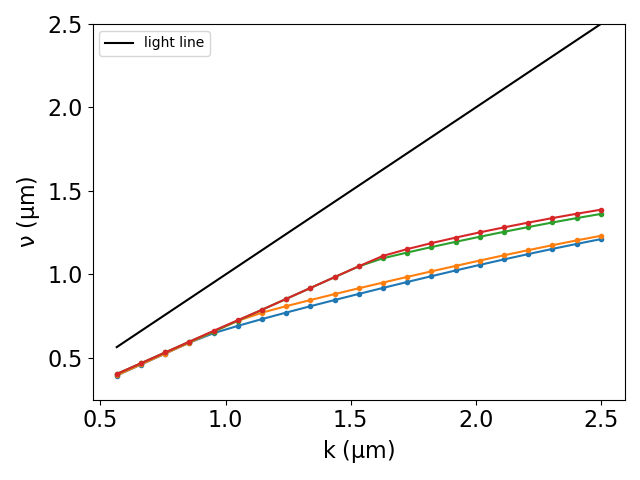
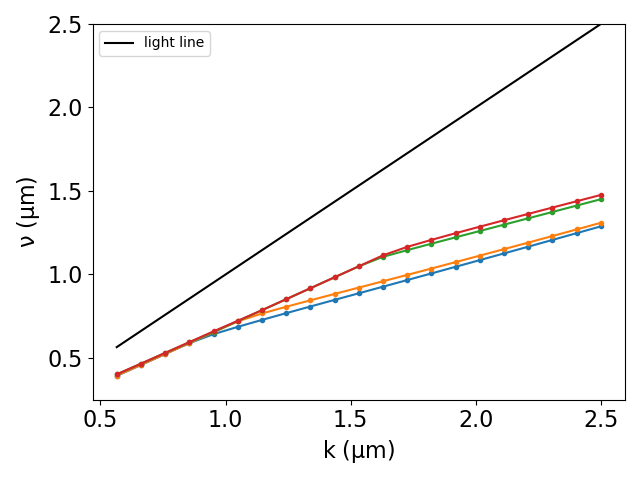
make sure materials are BIREFRINGENT

diff --git a/waveguide_dispersion.py b/waveguide_dispersion.py
@@ -5,8 +5,8 @@ frequency. For example, you can imagine that for a frequency well above the cuto
 that can propagate which results in different k's. MPB solves for the modes starting with highest order and going
 down to the fundamental mode. This is because information retained from the higher order modes can be used to
 accelerate the calculations for the lower ones. You can pass arguments to ms.find_k(), for example, if you wanted it
-to retain the E and H that are calculated. This would allow you to plot the field cross-sections inside the waveguide
-for the different modes. """
+to retain the E and H fields that are calculated. This would allow you to plot the field cross-sections inside the
+waveguide for the different modes. """
 
 import meep as mp
 import meep.materials as mt
@@ -71,8 +71,8 @@ class RidgeWaveguide:
         """
 
         geometry_sim = copy.deepcopy(self.geometry)
-        geometry_sim[0].material = mp.Medium(epsilon=self.wvgd_mdm.epsilon(1 / 1.55)[2, 2])
-        geometry_sim[1].material = mp.Medium(epsilon=self.sbstrt_mdm.epsilon(1 / 1.55)[2, 2])
+        geometry_sim[0].material = mp.Medium(epsilon_diag=self.wvgd_mdm.epsilon(1 / 1.55).diagonal())
+        geometry_sim[1].material = mp.Medium(epsilon_diag=self.sbstrt_mdm.epsilon(1 / 1.55).diagonal())
         self.sim = mp.Simulation(cell_size=self.lattice.size,
                                  geometry=geometry_sim,
                                  resolution=self.resolution[0])
@@ -249,17 +249,17 @@ class RidgeWaveguide:
 
         start = time.time()
         for n, k in enumerate(k_points):
-            eps_wvgd = self.wvgd_mdm.epsilon(k.x)[2, 2]
-            eps_sbstrt = self.sbstrt_mdm.epsilon(k.x)[2, 2]
-            self.blk_wvgd.material = mp.Medium(epsilon=eps_wvgd)
-            self.blk_sbstrt.material = mp.Medium(epsilon=eps_sbstrt)
+            eps_wvgd = self.wvgd_mdm.epsilon(k.x)
+            eps_sbstrt = self.sbstrt_mdm.epsilon(k.x)
+            self.blk_wvgd.material = mp.Medium(epsilon_diag=eps_wvgd.diagonal())
+            self.blk_sbstrt.material = mp.Medium(epsilon_diag=eps_sbstrt.diagonal())
 
             self.ms.k_points = [k]
             self.ms.run()
 
             FREQ[n] = self.ms.all_freqs[0]
-            EPS_WVGD[n] = eps_wvgd.real
-            EPS_SBSTRT[n] = eps_sbstrt.real
+            EPS_WVGD[n] = eps_wvgd.real[2, 2]
+            EPS_SBSTRT[n] = eps_sbstrt.real[2, 2]
 
             print(f'____________________________{len(k_points) - n}________________________________________')
 
@@ -297,33 +297,79 @@ class RidgeWaveguide:
         res.freq = self.ms.all_freqs
         return res
 
+    def find_k(self, p, omega, band_min, band_max, korig_and_kdir, tol,
+               kmag_guess, kmag_min, kmag_max, *band_funcs):
+
+        args = [p, omega, band_min, band_max, korig_and_kdir, tol,
+                kmag_guess, kmag_min, kmag_max, *band_funcs]
+
+        if (self.wvgd_mdm.valid_freq_range[-1] == 1e20) and (self.sbstrt_mdm.valid_freq_range[-1] == 1e20):
+            # materials are NON dispersive
+            return self.ms.find_k(*args)
+
+        else:
+            # materials are dispersive
+            # set the substrate and waveguide epsilon for the input wavelength
+            # then run the simulation
+            eps_wvgd = self.wvgd_mdm.epsilon(omega)
+            eps_sbstrt = self.sbstrt_mdm.epsilon(omega)
+            self.blk_wvgd.material = mp.Medium(epsilon_diag=eps_wvgd.diagonal())
+            self.blk_sbstrt.material = mp.Medium(epsilon_diag=eps_sbstrt.diagonal())
+            return self.ms.find_k(*args)
 
 # %%____________________________________________________________________________________________________________________
-wl_wvgd = 3.5  # um
-n_cntr_wl = mt.LiNbO3.epsilon((1 / wl_wvgd))[2, 2]  # ne polarization
-wdth_wvgd = 0.5 * wl_wvgd / n_cntr_wl
+# wl_wvgd = 3.5  # um
+# n_cntr_wl = mt.LiNbO3.epsilon((1 / wl_wvgd))[2, 2]  # ne polarization
+# wdth_wvgd = 0.5 * wl_wvgd / n_cntr_wl
+#
+# ridge = RidgeWaveguide(
+#     width=wdth_wvgd,
+#     height=.5,
+#     substrate_medium=mt.SiO2,  # dispersive
+#     waveguide_medium=mt.LiNbO3,  # dispersive
+#     resolution=40,
+#     num_bands=4,
+#     cell_width=8,
+#     cell_height=8
+# )
 
-ridge = RidgeWaveguide(
-    width=wdth_wvgd,
-    height=.5,
-    # substrate_medium=mp.Medium(index=1.45),
-    # waveguide_medium=mp.Medium(index=3.45),
-    substrate_medium=mt.SiO2,
-    waveguide_medium=mt.LiNbO3,
-    resolution=30,
-    num_bands=4,
-    cell_width=8,
-    cell_height=8
-)
+# ridge.num_bands = 4
+# res = ridge.calculate_dispersion(.4, 1.77, 19)
+#
+# plt.figure()
+# [plt.plot(res.kx, res.freq[:, n], '.-') for n in range(res.freq.shape[1])]
+# plt.plot(res.kx, res.kx, 'k', label='light line')
+# plt.legend(loc='best')
+# plt.xlabel("k ($\mathrm{\mu m}$)")
+# plt.ylabel("$\mathrm{\\nu}$ ($\mathrm{\mu m}$)")
+# plt.ylim(.25, 2.5)
 
 # %%____________________________________________________________________________________________________________________
-res = ridge.calculate_dispersion(.4, 1.77, 19)
+# set epsilon for 1.55 um
+# ridge.width = 1
 
-# %%____________________________________________________________________________________________________________________
-plt.figure()
-[plt.plot(res.kx, res.freq[:, n], '.-') for n in range(res.freq.shape[1])]
-plt.plot(res.kx, res.kx, 'k', label='light line')
-plt.legend(loc='best')
-plt.xlabel("k ($\mathrm{\mu m}$)")
-plt.ylabel("$\mathrm{\\nu}$ ($\mathrm{\mu m}$)")
-plt.ylim(.25, 2.5)
+# omega = 1 / 1.55
+# n = ridge.wvgd_mdm.epsilon(1 / 1.55)[2, 2]
+# kmag_guess = n * omega
+#
+# k = ridge.find_k(
+#     p=mp.EVEN_Y,
+#     omega=1,
+#     band_min=4,
+#     band_max=4,
+#     korig_and_kdir=mp.Vector3(1),
+#     tol=1e-6,
+#     kmag_guess=kmag_guess,
+#     kmag_min=kmag_guess * .1,
+#     kmag_max=kmag_guess * 10
+# )
+#
+# E = ridge.ms.get_efield(1, False)
+# eps = ridge.ms.get_epsilon()
+# for n, title in enumerate(['Ex', 'Ey', 'Ez']):
+#     plt.figure()
+#     x = E[:, :, 0, n].__abs__() ** 2
+#     plt.imshow(eps[::-1, ::-1].T, interpolation='spline36', cmap='binary')
+#     plt.imshow(x[::-1, ::-1].T, cmap='RdBu', alpha=0.9)
+#     plt.axis(False)
+#     plt.title(title)

diff --git a/temp2.py b/temp2.py
@@ -1,0 +1,82 @@
+import meep as mp
+from meep import mpb
+import numpy as np
+from matplotlib import pyplot as plt
+
+Si = mp.Medium(index=3.45)
+wavelength = 1.55
+omega = 1 / wavelength
+w = 1  # Si width (um)
+h = 0.5  # Si height (um)
+geometry = [mp.Block(size=mp.Vector3(mp.inf, w, h), material=Si)]
+resolution = 32  # pixels/um
+sc_y = 2  # supercell width (um)
+sc_z = 2  # supercell height (um)
+geometry_lattice = mp.Lattice(size=mp.Vector3(0, sc_y, sc_z))
+
+num_modes = 4
+# Setup a simulation object
+ms = mpb.ModeSolver(
+    geometry_lattice=geometry_lattice,
+    geometry=geometry,
+    resolution=resolution,
+    num_bands=num_modes
+)
+
+# ------------------------------------------------- #
+# Solve for all the modes at once, then plot
+# ------------------------------------------------- #
+
+k = ms.find_k(
+    p=mp.EVEN_Z,
+    omega=omega,
+    band_min=1,
+    band_max=num_modes,
+    korig_and_kdir=mp.Vector3(1, 0, 0),
+    tol=1e-4,
+    kmag_guess=omega * 3.45,
+    kmag_min=omega * 0.1,
+    kmag_max=omega * 4
+)
+print(wavelength * np.array(k))
+eps = ms.get_epsilon()
+plt.figure(figsize=(8, 4))
+# Plot the E fields
+for mode in range(num_modes):
+    print('Current band: {}'.format(mode + 1))
+    E = ms.get_efield(which_band=mode + 1, bloch_phase=False)
+    plt.subplot(1, num_modes, mode + 1)
+    plt.imshow(eps.transpose(), interpolation='spline36', cmap='binary')
+    plt.imshow(np.abs(np.squeeze(E[:, :, 0, 1]).transpose()) ** 2, cmap='RdBu', alpha=0.9)
+    plt.axis('off')
+    plt.title('$E_{{y{}}}$'.format(mode))
+plt.tight_layout()
+plt.savefig('errorFields.png')
+
+# ------------------------------------------------- #
+# Solve for all the modes one by one
+# ------------------------------------------------- #
+
+plt.figure(figsize=(8, 4))
+for mode in range(num_modes):
+    k = ms.find_k(
+        p=mp.EVEN_Z,
+        omega=omega,
+        band_min=mode + 1,
+        band_max=mode + 1,
+        korig_and_kdir=mp.Vector3(1, 0, 0),
+        tol=1e-4,
+        kmag_guess=omega * 3.45,
+        kmag_min=omega * 0.1,
+        kmag_max=omega * 4
+    )
+    E = ms.get_efield(which_band=mode + 1, bloch_phase=False)
+    plt.subplot(1, num_modes, mode + 1)
+    plt.imshow(eps.transpose(), interpolation='spline36', cmap='binary')
+    plt.imshow(np.abs(np.squeeze(E[:, :, 0, 1]).transpose()) ** 2, cmap='RdBu', alpha=0.9)
+    plt.axis('off')
+    plt.title('$E_{{y{}}}$'.format(mode))
+plt.tight_layout()
+plt.savefig('correctFields.png')
+
+plt.show()
